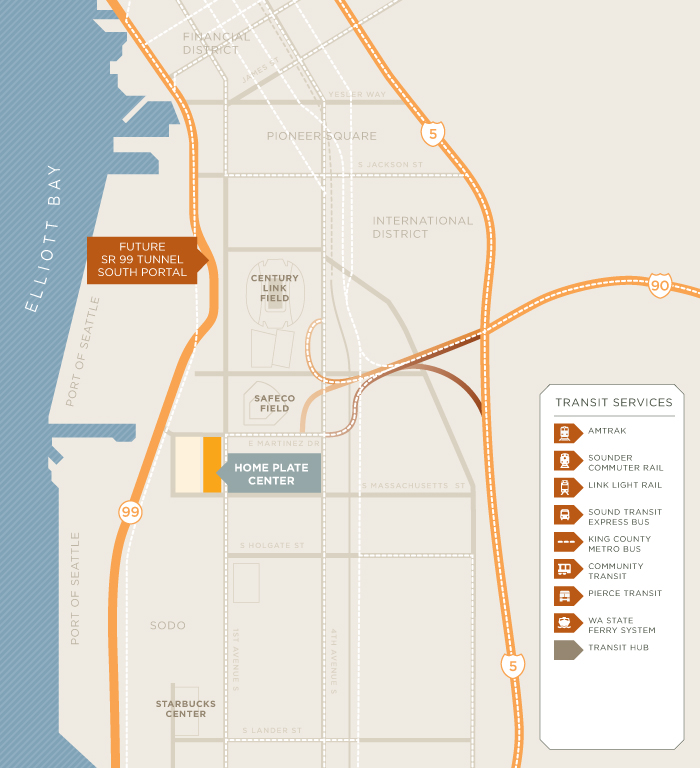
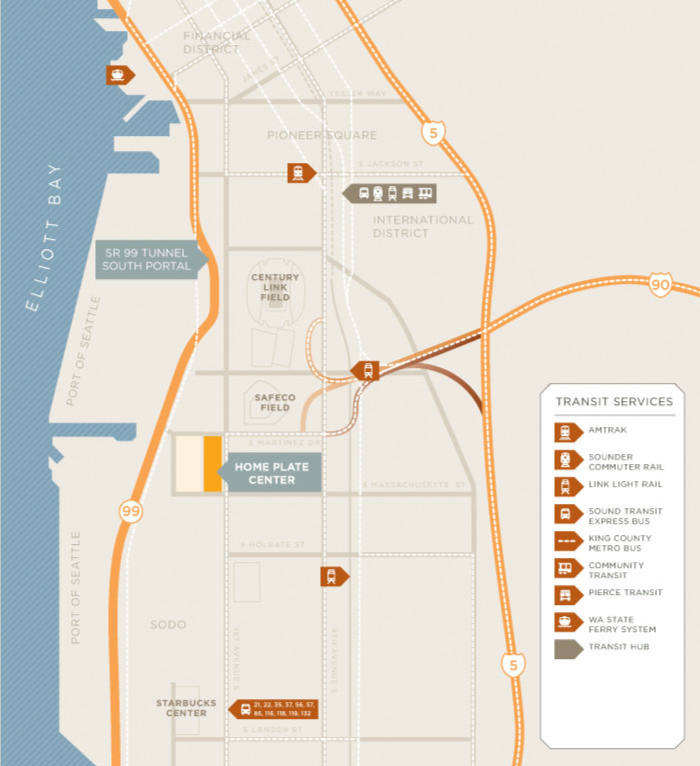
Additional Changes

diff --git a/Full Site/css/style.css b/Full Site/css/style.css
@@ -87,6 +87,7 @@ h2{font-family: 'Stint Ultra Expanded', georgia, serif; font-size: 34px; margin-
 h3{font-family: 'Lato', helvetica, arial, sans-serif; font-size: 16px; font-weight: normal; text-transform: uppercase; color:#444d3e; margin-top:10px;}
 h4{font-family: 'Lato', helvetica, arial, sans-serif; font-size: 14px; font-weight: normal; text-transform: uppercase; color:#444d3e; letter-spacing: 0.25em; margin-bottom: 0.25em;}
 h5{font-family: 'Lato', helvetica, arial, sans-serif; font-size: 14px; font-weight: normal; text-transform: uppercase; color:#8b9b92;}
+h6{font-family: 'Stint Ultra Expanded', georgia, serif; font-size: 18px; margin-bottom:14px; font-weight: 100}
 p{font-family:'Lato', helvetica, arial, sans-serif; font-size: 13px; line-height: 20px; margin-bottom:1.5em;}
 
 /* =============================================================================
@@ -343,6 +344,7 @@ aside li{margin-bottom:12px;}
 .maincol table td{padding: 8px 0;}
 .maincol table .col1{width:160px; padding-right:20px;}
 
+
 .gal{margin:0 30px 30px 0; float:left; width:215px;}
 .gal.last{margin-right:0;}
 .gal img{margin-bottom:15px;}
@@ -384,7 +386,7 @@ hr{margin:30px 0 20px;}
 .borderrow{font-size:12px;}
 .borderrow tr{border-top:1px dotted #aea291; }
 .borderrow tr.last{border-bottom:1px dotted #aea291;}
-.borderrow tr{padding:5px 5px 5px 0;}
+.borderrow td{padding:10px 5px 10px 0;}
 .borderrow a{color:#444d3e}
 
 .nivoSlider {

diff --git a/Full Site/js/script.js b/Full Site/js/script.js
@@ -1,5 +1,5 @@
 $(window).load(function() {
-    $('.nivoSlider').nivoSlider({controlNav:false, directionNav:false});
+    $('.nivoSlider').nivoSlider({controlNav:false, directionNav:false, effect:'fade'});
     
     /*Equalize Cols*/
 	var currentTallest = 0,

diff --git a/Full Site/plaza-art.php b/Full Site/plaza-art.php
@@ -1,0 +1,39 @@
+<?php
+	$page_title = "About the Plaza Art and Artists :: Home Plate Seattle";
+	$page_description = "";
+	$fb_title = "";
+	$fb_description = "";
+	$section = "news";
+	include('inc/header.php');
+?>
+
+<div role="main" id="content" class="clearfix">
+	<img src="img/banners/press_release.jpg" alt="Home Plate Seattle Media and Press Releases" />
+	<div class="mainrow">
+	
+
+	<?php include('inc/sidebar-news.php'); ?>
+	
+	<section class="extended col clearfix">
+		<h2>About the Plaza Art and Artists</h2>
+		
+			<p>
+			<em><strong>Art: Echoes on a Coastal Landscape</strong></em><br />
+			Echoes on a Coastal Landscape by noted artist Konstantin Dimopoulos is a site-specific environmental sculpture installation was created for Home Plate Center plaza. This dynamic sculpture uses powerful color, vertical rods, surroundings, repetition of form and the imagination of the viewer to transform the site and echo an organic, primordial past. The lush natural flora around Seattle is inherent in this concept, evoking both the history of the site and the developer's intent to acknowledge the wider natural environment. Because the sculpture is made of individual rods, they do not form a solid wall or a visual barrier. Rather, as appropriate to such a visionary project, visitors see beyond kinetic rods that create a dynamic transparency into the environment.
+			</p>
+			<p>
+			<em><strong>Artist: Konstantin Dimopoulos</strong></em><br />
+			<a href="http://www.kondimopoulos.com">Konstantin Dimopoulos'</a> award-winning art concentrates on nature and ecological themes. This focus prompted the commission of his Echoes on a Coastal Landscape for the Home Plate Center, which is also designed to mirror its Seattle environment. Noted for his public artworks, Dimopoulos' has pieces in private collections in the United States, Australia, United Arab Emirates and New Zealand.  Mr. Dimpoulos resides in Melbourne, Australia. 
+			</p>
+	</section>
+	<div class="clear"></div>
+	</div><!--End Mainrow-->
+	
+</div><!--End #content-->
+</div><!--End #wrap-->
+  
+ <?php include('inc/footer.php'); ?>
+
+
+
+

diff --git a/Full Site/disclaimer.php b/Full Site/disclaimer.php
@@ -1,0 +1,35 @@
+<?php
+	$page_title = "Disclaimer :: Home Plate Seattle";
+	$page_description = "";
+	$fb_title = "";
+	$fb_description = "";
+	$section = "";
+	include('inc/header.php');
+?>
+
+<div role="main" id="content" class="clearfix">
+	<img src="img/banners/press_release.jpg" alt="Home Plate Seattle Media and Press Releases" />
+	<div class="mainrow">
+	
+
+	<nav class="col subnav">
+
+</nav>
+	
+	<section class="extended col clearfix">
+		<h2>Disclaimer</h2>
+		
+<p>Pellentesque habitant morbi tristique senectus et netus et malesuada fames ac turpis egestas. Vestibulum tortor quam, feugiat vitae, ultricies eget, tempor sit amet, ante. Donec eu libero sit amet quam egestas semper. Aenean ultricies mi vitae est. Mauris placerat eleifend leo.</p>
+<p>Pellentesque habitant morbi tristique senectus et netus et malesuada fames ac turpis egestas. Vestibulum tortor quam, feugiat vitae, ultricies eget, tempor sit amet, ante. Donec eu libero sit amet quam egestas semper. Aenean ultricies mi vitae est. Mauris placerat eleifend leo.</p>
+<p>Pellentesque habitant morbi tristique senectus et netus et malesuada fames ac turpis egestas. Vestibulum tortor quam, feugiat vitae, ultricies eget, tempor sit amet, ante. Donec eu libero sit amet quam egestas semper. Aenean ultricies mi vitae est. Mauris placerat eleifend leo.</p>
+		
+	</section>
+	<div class="clear"></div>
+	</div><!--End Mainrow-->
+	
+</div><!--End #content-->
+</div><!--End #wrap-->
+  
+ <?php include('inc/footer.php'); ?>
+
+

diff --git a/Full Site/american-life.php b/Full Site/american-life.php
@@ -1,0 +1,32 @@
+<?php
+	$page_title = "About American Life :: Home Plate Seattle";
+	$page_description = "";
+	$fb_title = "";
+	$fb_description = "";
+	$section = "news";
+	include('inc/header.php');
+?>
+
+<div role="main" id="content" class="clearfix">
+	<img src="img/banners/press_release.jpg" alt="Home Plate Seattle Media and Press Releases" />
+	<div class="mainrow">
+	
+
+	<?php include('inc/sidebar-news.php'); ?>
+	
+	<section class="extended col clearfix">
+		<h2>About American Life</h2>
+		
+		<p>
+		American Life Inc. was established in 1996 to advance the transformation of the area south of downtown (SODO). Because Seattle's geography severely limits available land near downtown, American Life sees a southward trend as inevitable to accommodate the city's historic steady growth patterns. The team is positioning its innovative properties to meet the area's inevitable growth in both importance and value in the mid-to-long term, and is attracting fellow visionaries to join them. For more information, visit <a href="http://www.amlife.us">www.amlife.us</a>
+		</p>
+	</section>
+	<div class="clear"></div>
+	</div><!--End Mainrow-->
+	
+</div><!--End #content-->
+</div><!--End #wrap-->
+  
+ <?php include('inc/footer.php'); ?>
+
+

diff --git a/Full Site/inc/header.php b/Full Site/inc/header.php
@@ -44,7 +44,7 @@
 	  	</div>
 		<div id="h_main" class="clearfix">
 			<?php if( isset($section) && $section == 'home') echo'<div id="h_callout">Grand Opening April 12 2012</div>'; ?>
-			<h1><a href="/homeplate">Home Plate Center</a></h1>
+			<h1><a href="/clients/americanlife">Home Plate Center</a></h1>
 		</div>
 		<div class="clear"></div>
 		<nav class="clearfix main">
@@ -52,7 +52,7 @@
 				<li><a href="location.php" <?php if($section == "location"){echo 'class="current"';} ?>>The Location</a></li>
 				<li><a href="design.php" <?php if($section == "building") echo 'class="current"' ?>>The Building</a></li>
 				<li><a href="north-floorplate35-multi.php" <?php if($section == "spaces") echo 'class="current"' ?>>The Spaces</a></li>
-				<li><a href="exterior.php" <?php if($section == "gallery") echo 'class="current"' ?>>Gallery</a></li>
+				<!--<li><a href="exterior.php" <?php if($section == "gallery") echo 'class="current"' ?>>Gallery</a></li>-->
 				<li><a href="media.php" <?php if($section == "news")echo 'class="current"' ?>>News</a></li>
 			</ul>
 		</nav>

diff --git a/Full Site/project-team.php b/Full Site/project-team.php
@@ -15,12 +15,12 @@
 	<?php include('inc/sidebar-news.php'); ?>
 	
 	<section class="extended col clearfix">
-		<h2>Media &amp; Press Releases</h2>
+		<h2>Project Team</h2>
 		
 		<table class="borderrow">
 			<tr>
 				<td width="160">Developer/Owner</td>
-				<td><a href="#">American Life</a></td>
+				<td><a href="http://www.amlife.us">American Life</a></td>
 			</tr>	
 			<tr>
 				<td>General Contractor</td>
@@ -28,11 +28,11 @@
 			</tr>
 			<tr>
 				<td>Interiors</td>
-				<td><a href="#">Degen &amp; Degen</a></td>
+				<td><a href="http://www.ddseattle.com/">Degen &amp; Degen</a></td>
 			</tr>
 			<tr>
 				<td>Architect</td>
-				<td><a href="#">Freiheit &amp; Ho Architects, Inc.</a></td>
+				<td><a href="http://www.fhoarch.com/">Freiheit &amp; Ho Architects, Inc.</a></td>
 			</tr>
 			<tr>
 				<td>Engineers</td>

diff --git a/Full Site/attractions.php b/Full Site/attractions.php
@@ -14,7 +14,7 @@
 	<section class="extended col clearfix">
 		<img src="img/attraction-map.jpg" alt="Transit Map" />
 		<hr />
-		<h2>Life is good at Home Plate Center. When the business day is through, there is so much to do right nearby. Century Link Field and Safeco Field keep you on top of the professional sports scene. Entertain clients at hotels, restaurants, an event center and famous Seattle icons that call SODO home.</h2>
+		<h6>Life is good at Home Plate Center. When the business day is through, there is so much to do right nearby. Century Link Field and Safeco Field keep you on top of the professional sports scene. Entertain clients at hotels, restaurants, an event center and famous Seattle icons that call SODO home.</h6>
 	</section>
 	<div class="clear"></div>
 	</div><!--End Mainrow-->

diff --git a/Full Site/ingress-egress.php b/Full Site/ingress-egress.php
@@ -14,7 +14,7 @@
 	<section class="extended col clearfix">
 		<img src="img/ingress-map.jpg" alt="Ingress/Egress Map" />
 		<hr />
-		<h2>Excellent freeway access saves you valuable time. The Home Plate Center underground parking garage directly delivers you onto Edgar Martinez Way/South Atlantic St. with direct access to I-5 and I-90. Highway 99 on-ramp is two blocks away, and future tunnel will be just around the corner.</h2>
+		<h6>Excellent freeway access saves you valuable time. The Home Plate Center underground parking garage directly delivers you onto Edgar Martinez Way/South Atlantic St. with direct access to I-5 and I-90. Highway 99 on-ramp is two blocks away, and future tunnel will be just around the corner.</h6>
 	</section>
 	<div class="clear"></div>
 	</div><!--End Mainrow-->

diff --git a/Full Site/features.php b/Full Site/features.php
@@ -60,7 +60,8 @@
 			</tr>
 			<tr>
 				<td class="col1">Ample Wattage</td>
-				<td>To meet all your power needs, our office suites accommodate 15 and Backup Systems	WHAT GOES HERE???????????????  watts per square foot. Both the north and south buildings have 4MW of power feeds and backup generator power for maximum peace of mind</td>
+				<td>To meet all your power needs, our office suites accommodate 15 watts per square foot. Both the north and south buildings have 4MW of power feeds and backup generator power for maximum peace of mind.
+				</td>
 			</tr>												
 			<tr>
 				<td class="col1">Data Center Readiness</td>

diff --git a/Full Site/transit.php b/Full Site/transit.php
@@ -14,7 +14,7 @@
 	<section class="extended col clearfix">
 		<img src="img/transit-map.jpg" alt="Transit Map" />
 		<hr />
-		<h2>Seattle's Regional Transit Hub is in close proximity to Home Plate Center providing superior transit with a multi-modal hub for its tenants. </h2>
+		<h6>Seattle's Regional Transit Hub is in close proximity to Home Plate Center providing superior transit with a multi-modal hub for its tenants. </h6>
 	</section>
 	<div class="clear"></div>
 	</div><!--End Mainrow-->

diff --git a/Full Site/regional-map.php b/Full Site/regional-map.php
@@ -14,7 +14,7 @@
 	<section class="extended col clearfix">
 		<img src="img/regional-map.jpg" alt="Regional Map" />
 		<hr />
-		<h2>Home Plate Center’s central location near freeways and main arterials accommodates easy access from all regional communities.</h2>
+		<h6>Home Plate Center’s central location near freeways and main arterials accommodates easy access from all regional communities.</h6>
 	</section>
 	<div class="clear"></div>
 	</div><!--End Mainrow-->
